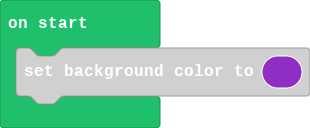
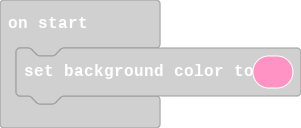
Update main.blocks, main.ts

diff --git a/main.ts b/main.ts
@@ -1,1 +1,1 @@
-scene.setBackgroundColor(10)
+scene.setBackgroundColor(3)
